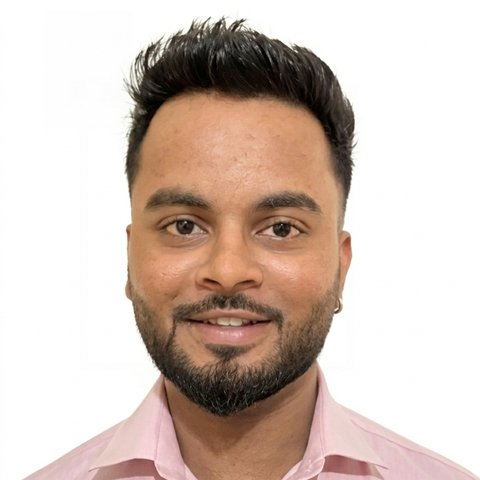
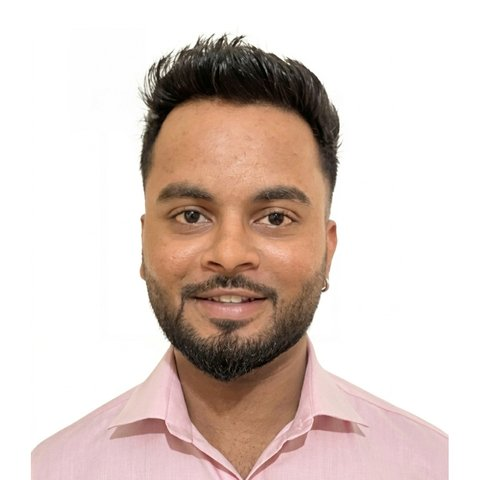
Address: Vijay Nagar Balwadi, M.H.B. Colony; Sahil photo zoomed out

diff --git a/client/src/index.html b/client/src/index.html
@@ -5,7 +5,7 @@
   <title>Vijay Nagarcha Raja | Vijay Nagar Sarvajanik Ganesh Utsav Mandal, Bandra (East)</title>
   <base href="/">
   <meta name="viewport" content="width=device-width, initial-scale=1, viewport-fit=cover">
-  <meta name="description" content="Vijay Nagarcha Raja (विजय नगरचा राजा) – official website of Vijay Nagar Sarvajanik Ganesh Utsav Mandal, Teacher's Colony, Vijay Nagar, near Cardinal Gracias High School, Bandra (East), Mumbai 400051. Celebrating Ganeshotsav since 1969 – Bappa darshan, decoration, Aagman & Visarjan videos, annual Bhandara, photos and donations.">
+  <meta name="description" content="Vijay Nagarcha Raja (विजय नगरचा राजा) – official website of Vijay Nagar Sarvajanik Ganesh Utsav Mandal, Vijay Nagar Balwadi, M.H.B. Colony, Vijay Nagar, near Cardinal Gracias High School, Bandra (East), Mumbai 400051. Celebrating Ganeshotsav since 1969 – Bappa darshan, decoration, Aagman & Visarjan videos, annual Bhandara, photos and donations.">
   <link rel="canonical" href="https://vijaynagarganeshutsavmandalbandra51.github.io/">
   <!-- Preview when the link is shared on WhatsApp / Facebook / Instagram -->
   <meta property="og:type" content="website">
@@ -19,7 +19,7 @@
   <meta property="og:locale" content="en_IN">
   <meta name="twitter:card" content="summary_large_image">
   <!-- Facts Google can show in search (name, address, map, founded, Instagram, festival dates) -->
-  <script type="application/ld+json">{"@context": "https://schema.org", "@type": "Organization", "@id": "https://vijaynagarganeshutsavmandalbandra51.github.io/#mandal", "name": "Vijay Nagar Sarvajanik Ganesh Utsav Mandal", "alternateName": ["Vijay Nagarcha Raja", "विजय नगरचा राजा", "विजय नगर सार्वजनिक गणेशोत्सव मंडळ", "Vijay Nagar Ganpati Bandra"], "url": "https://vijaynagarganeshutsavmandalbandra51.github.io/", "logo": "https://vijaynagarganeshutsavmandalbandra51.github.io/images/logo-512.png", "image": "https://vijaynagarganeshutsavmandalbandra51.github.io/images/og-share.jpg", "description": "Independent Sarvajanik Ganeshotsav mandal run by the residents of Buildings 1 to 8 of Vijay Nagar, Teacher's Colony, Bandra (East), Mumbai, celebrating Bappa together since 1969. Known as Vijay Nagarcha Raja. Not part of any other mandal or group. Also celebrates Gudi Padwa and other festivals, and holds an annual Bhandara open to everyone that serves almost 1,000 people, and organises a Blood Donation Camp.", "foundingDate": "1969", "email": "vijaynagarcharajabandra51@gmail.com", "telephone": "+91-83559-94705", "address": {"@type": "PostalAddress", "streetAddress": "Teacher's Colony, Vijay Nagar, near Cardinal Gracias High School, Bandra (East)", "addressLocality": "Mumbai", "addressRegion": "Maharashtra", "postalCode": "400051", "addressCountry": "IN"}, "location": {"@type": "Place", "name": "Vijay Nagarcha Raja pandal", "geo": {"@type": "GeoCoordinates", "latitude": 19.0675811, "longitude": 72.8483492}, "hasMap": "https://maps.app.goo.gl/3ePpdehUfkw8B6wVA", "address": "Teacher's Colony, Vijay Nagar, near Cardinal Gracias High School, Bandra (East), Mumbai, Maharashtra 400051"}, "sameAs": ["https://www.instagram.com/_vijaynagarcha_raja_/"], "event": {"@type": "Event", "name": "Vijay Nagarcha Raja – Ganeshotsav 2027 (59th year)", "startDate": "2027-09-04", "endDate": "2027-09-14", "eventStatus": "https://schema.org/EventScheduled", "eventAttendanceMode": "https://schema.org/OfflineEventAttendanceMode", "location": {"@type": "Place", "name": "Vijay Nagar, Bandra (East), Mumbai", "address": "Teacher's Colony, Vijay Nagar, near Cardinal Gracias High School, Bandra (East), Mumbai, Maharashtra 400051"}, "image": "https://vijaynagarganeshutsavmandalbandra51.github.io/images/og-share.jpg", "description": "Ganesh Chaturthi to Anant Chaturdashi at Vijay Nagar, Bandra (East). Everyone is welcome for darshan.", "organizer": {"@id": "https://vijaynagarganeshutsavmandalbandra51.github.io/#mandal"}, "isAccessibleForFree": true}}</script>
+  <script type="application/ld+json">{"@context": "https://schema.org", "@type": "Organization", "@id": "https://vijaynagarganeshutsavmandalbandra51.github.io/#mandal", "name": "Vijay Nagar Sarvajanik Ganesh Utsav Mandal", "alternateName": ["Vijay Nagarcha Raja", "विजय नगरचा राजा", "विजय नगर सार्वजनिक गणेशोत्सव मंडळ", "Vijay Nagar Ganpati Bandra"], "url": "https://vijaynagarganeshutsavmandalbandra51.github.io/", "logo": "https://vijaynagarganeshutsavmandalbandra51.github.io/images/logo-512.png", "image": "https://vijaynagarganeshutsavmandalbandra51.github.io/images/og-share.jpg", "description": "Independent Sarvajanik Ganeshotsav mandal run by the residents of Buildings 1 to 8 of Vijay Nagar, M.H.B. Colony, Bandra (East), Mumbai, celebrating Bappa together since 1969. Known as Vijay Nagarcha Raja. Not part of any other mandal or group. Also celebrates Gudi Padwa and other festivals, and holds an annual Bhandara open to everyone that serves almost 1,000 people, and organises a Blood Donation Camp.", "foundingDate": "1969", "email": "vijaynagarcharajabandra51@gmail.com", "telephone": "+91-83559-94705", "address": {"@type": "PostalAddress", "streetAddress": "Vijay Nagar Balwadi, M.H.B. Colony, Vijay Nagar, near Cardinal Gracias High School, Bandra (East)", "addressLocality": "Mumbai", "addressRegion": "Maharashtra", "postalCode": "400051", "addressCountry": "IN"}, "location": {"@type": "Place", "name": "Vijay Nagarcha Raja pandal", "geo": {"@type": "GeoCoordinates", "latitude": 19.0675811, "longitude": 72.8483492}, "hasMap": "https://maps.app.goo.gl/3ePpdehUfkw8B6wVA", "address": "Vijay Nagar Balwadi, M.H.B. Colony, Vijay Nagar, near Cardinal Gracias High School, Bandra (East), Mumbai, Maharashtra 400051"}, "sameAs": ["https://www.instagram.com/_vijaynagarcha_raja_/"], "event": {"@type": "Event", "name": "Vijay Nagarcha Raja – Ganeshotsav 2027 (59th year)", "startDate": "2027-09-04", "endDate": "2027-09-14", "eventStatus": "https://schema.org/EventScheduled", "eventAttendanceMode": "https://schema.org/OfflineEventAttendanceMode", "location": {"@type": "Place", "name": "Vijay Nagar, Bandra (East), Mumbai", "address": "Vijay Nagar Balwadi, M.H.B. Colony, Vijay Nagar, near Cardinal Gracias High School, Bandra (East), Mumbai, Maharashtra 400051"}, "image": "https://vijaynagarganeshutsavmandalbandra51.github.io/images/og-share.jpg", "description": "Ganesh Chaturthi to Anant Chaturdashi at Vijay Nagar, Bandra (East). Everyone is welcome for darshan.", "organizer": {"@id": "https://vijaynagarganeshutsavmandalbandra51.github.io/#mandal"}, "isAccessibleForFree": true}}</script>
   <script type="application/ld+json">{"@context": "https://schema.org", "@type": "WebSite", "name": "Vijay Nagarcha Raja", "alternateName": "Vijay Nagar Sarvajanik Ganesh Utsav Mandal", "url": "https://vijaynagarganeshutsavmandalbandra51.github.io/", "inLanguage": ["en", "mr"]}</script>
   <meta name="theme-color" content="#1f3a68">
   <link rel="icon" type="image/svg+xml" href="favicon.svg">
@@ -38,7 +38,7 @@
     <main style="font-family:sans-serif;max-width:760px;margin:40px auto;padding:0 16px;color:#222">
       <h1>Vijay Nagarcha Raja – Vijay Nagar Sarvajanik Ganesh Utsav Mandal</h1>
       <p>विजय नगरचा राजा – विजय नगर सार्वजनिक गणेशोत्सव मंडळ, वांद्रे (पूर्व), मुंबई ४०००५१.</p>
-      <p>Our Sarvajanik Ganeshotsav mandal was started in 1969 by a mutual decision of the residents of Buildings 1 to 8 of Teacher's Colony, Vijay Nagar, near Cardinal Gracias High School, Bandra (East), Mumbai 400051. Besides Ganeshotsav the mandal also celebrates Gudi Padwa. Every year we hold an annual Bhandara open to everyone, serving almost 1,000 people, and we organise a Blood Donation Camp. In 2026 our Kedarnath decoration, built by our own young volunteers, was featured on Jai Maharashtra News.</p>
+      <p>Our Sarvajanik Ganeshotsav mandal was started in 1969 by a mutual decision of the residents of Buildings 1 to 8 of Vijay Nagar Balwadi, M.H.B. Colony, Vijay Nagar, near Cardinal Gracias High School, Bandra (East), Mumbai 400051. Besides Ganeshotsav the mandal also celebrates Gudi Padwa. Every year we hold an annual Bhandara open to everyone, serving almost 1,000 people, and we organise a Blood Donation Camp. In 2026 our Kedarnath decoration, built by our own young volunteers, was featured on Jai Maharashtra News.</p>
       <p>Ganeshotsav 2027 (59th year): 4–14 September 2027. Contact: +91 83559 94705 · vijaynagarcharajabandra51@gmail.com</p>
     </main>
   </app-root>
